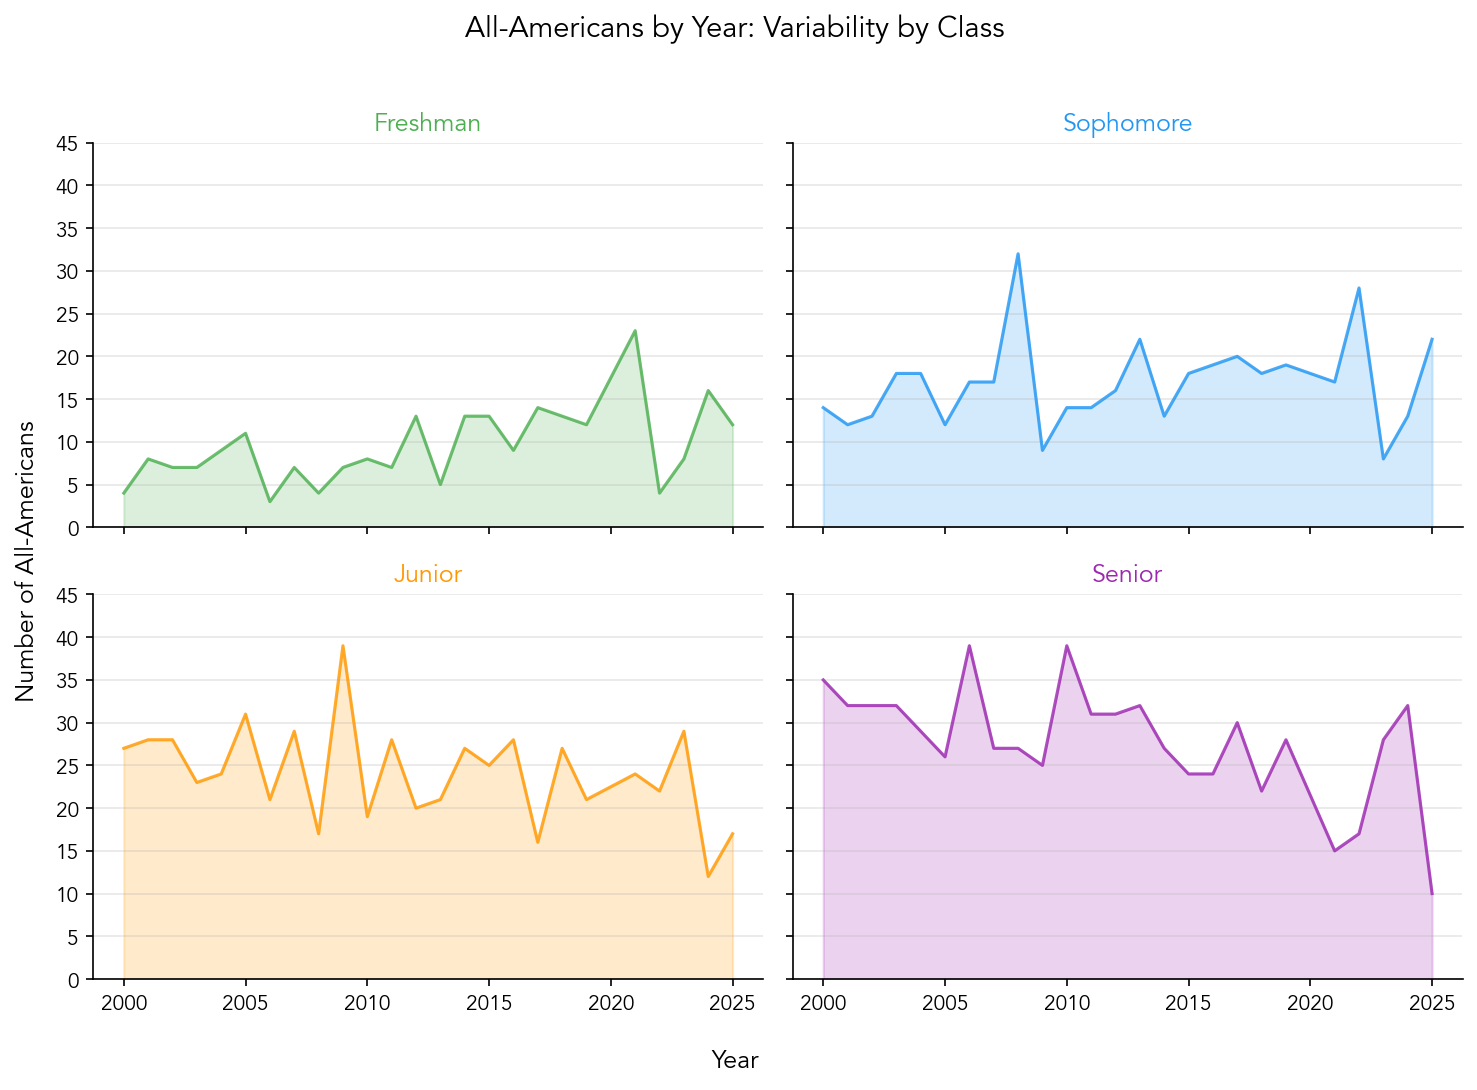
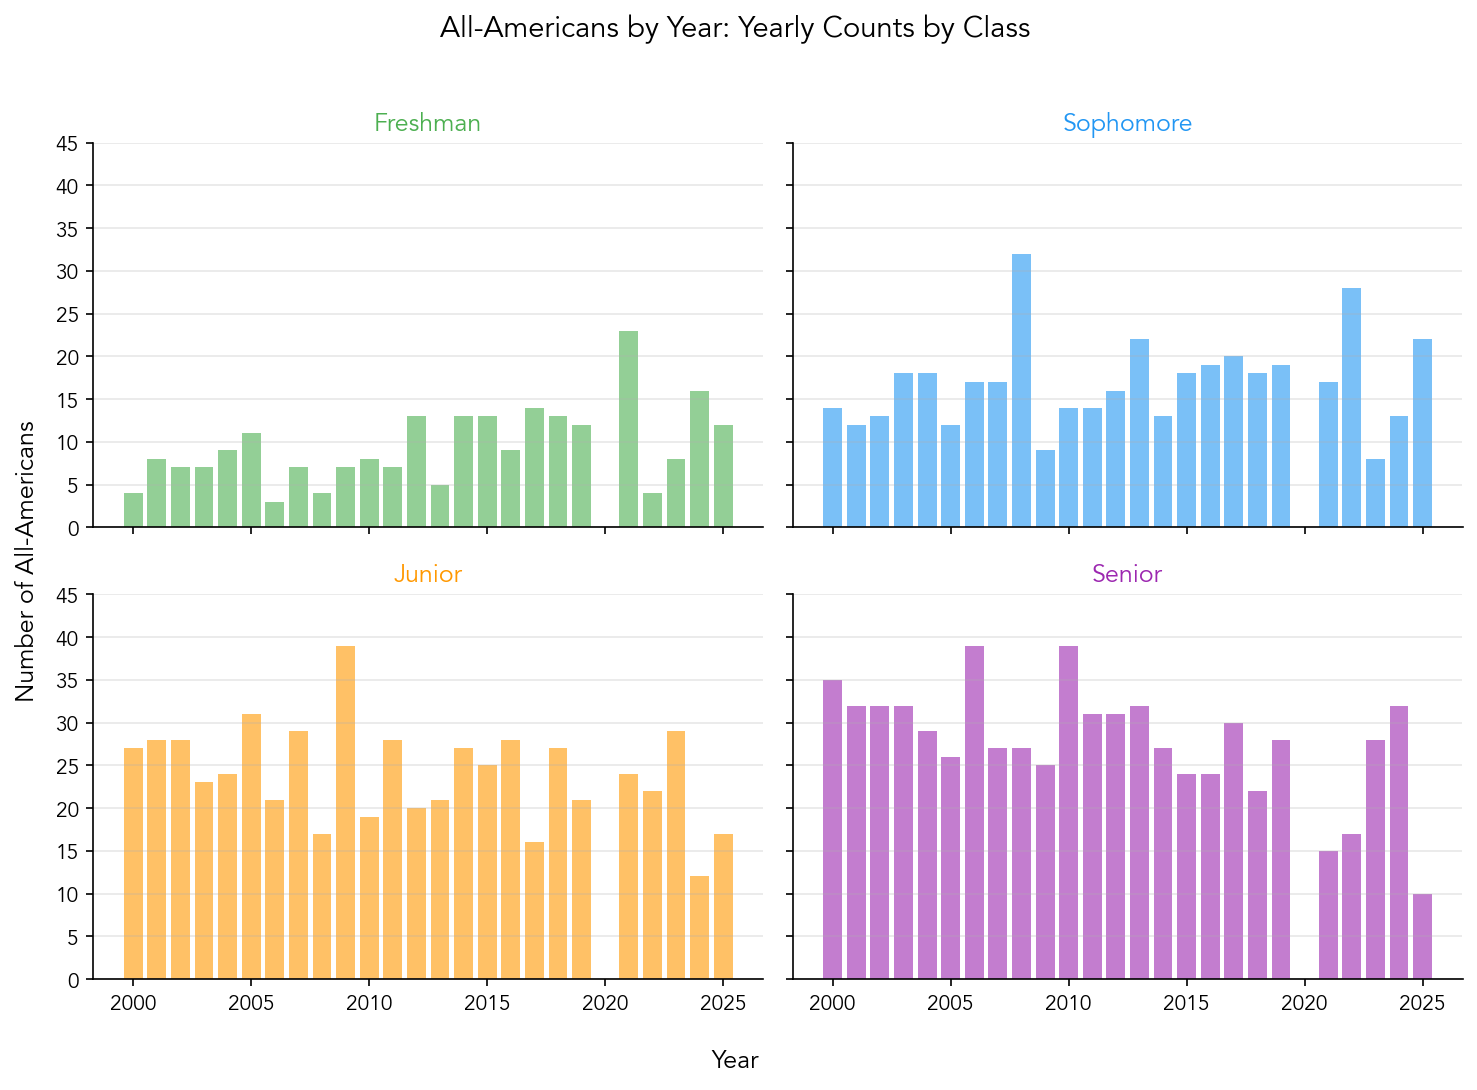
Update charts: 7-year rolling for AA trend, bar charts for variability views

diff --git a/notebooks/analysis.py b/notebooks/analysis.py
@@ -249,8 +249,8 @@ aa_by_year_elig = df.pivot_table(
 plot_order = [e for e in ["Fr", "So", "Jr", "Sr"] if e in aa_by_year_elig.columns]
 aa_counts = aa_by_year_elig[plot_order]
 
-# 5-year rolling mean for smoothing
-aa_smoothed = aa_counts.rolling(window=5, center=True, min_periods=1).mean()
+# 7-year rolling mean for smoothing
+aa_smoothed = aa_counts.rolling(window=7, center=True, min_periods=1).mean()
 
 # Eligibility labels for direct annotation
 ELIG_LABELS = {"Fr": "Freshman", "So": "Sophomore", "Jr": "Junior", "Sr": "Senior"}
@@ -284,7 +284,7 @@ for elig in plot_order:
 
 ax.set_xlabel("Year", fontsize=12)
 ax.set_ylabel("Number of All-Americans", fontsize=12)
-ax.set_title("All-Americans by Eligibility Class Over Time\n(5-year smoothed trend)", 
+ax.set_title("All-Americans by Eligibility Class Over Time\n(7-year smoothed trend)", 
              fontsize=14, fontweight="bold")
 ax.set_ylim(0, 45)
 ax.set_xlim(aa_smoothed.index.min(), aa_smoothed.index.max() + 3)  # Extra space for labels
@@ -302,7 +302,7 @@ print(f"Saved: {chart_path}")
 print(f"Saved: {site_chart_path}")
 
 # ==============================================================================
-# CHART 4: All-Americans Variability (Secondary) - Small Multiples
+# CHART 4: All-Americans Variability (Secondary) - Small Multiples Bar Charts
 # ==============================================================================
 
 fig, axes = plt.subplots(2, 2, figsize=(10, 7), sharex=True, sharey=True)
@@ -313,21 +313,13 @@ for idx, elig in enumerate(plot_order):
     years = aa_counts.index.values
     counts = aa_counts[elig].values
     
-    # Thin line for raw yearly data
-    ax.plot(
+    # Bar chart for raw yearly data
+    ax.bar(
         years, 
         counts,
         color=ELIGIBILITY_COLORS.get(elig, "#888888"),
-        linewidth=1.5,
-        alpha=0.8
-    )
-    
-    # Fill under the line
-    ax.fill_between(
-        years, 
-        counts, 
-        alpha=0.2,
-        color=ELIGIBILITY_COLORS.get(elig, "#888888")
+        alpha=0.6,
+        width=0.8
     )
     
     ax.set_title(ELIG_LABELS[elig], fontsize=12, fontweight="medium",
@@ -340,7 +332,7 @@ for idx, elig in enumerate(plot_order):
 # Common labels
 fig.supxlabel("Year", fontsize=12)
 fig.supylabel("Number of All-Americans", fontsize=12)
-fig.suptitle("All-Americans by Year: Variability by Class", fontsize=14, fontweight="bold", y=1.02)
+fig.suptitle("All-Americans by Year: Yearly Counts by Class", fontsize=14, fontweight="bold", y=1.02)
 
 plt.tight_layout()
 chart_path = CHARTS_DIR / "aa_variability_by_eligibility.png"
@@ -417,7 +409,7 @@ print(f"Saved: {chart_path}")
 print(f"Saved: {site_chart_path}")
 
 # ==============================================================================
-# CHART 6: National Champions Variability (Secondary) - Small Multiples
+# CHART 6: National Champions Variability (Secondary) - Small Multiples Bar Charts
 # ==============================================================================
 
 fig, axes = plt.subplots(2, 2, figsize=(10, 7), sharex=True, sharey=True)
@@ -428,21 +420,13 @@ for idx, elig in enumerate(plot_order_nc):
     years = nc_counts.index.values
     counts = nc_counts[elig].values
     
-    # Thin line for raw yearly data
-    ax.plot(
+    # Bar chart for raw yearly data
+    ax.bar(
         years, 
         counts,
         color=ELIGIBILITY_COLORS.get(elig, "#888888"),
-        linewidth=1.5,
-        alpha=0.8
-    )
-    
-    # Fill under the line
-    ax.fill_between(
-        years, 
-        counts, 
-        alpha=0.2,
-        color=ELIGIBILITY_COLORS.get(elig, "#888888")
+        alpha=0.6,
+        width=0.8
     )
     
     ax.set_title(ELIG_LABELS[elig], fontsize=12, fontweight="medium",
@@ -455,7 +439,7 @@ for idx, elig in enumerate(plot_order_nc):
 # Common labels
 fig.supxlabel("Year", fontsize=12)
 fig.supylabel("Number of National Champions", fontsize=12)
-fig.suptitle("National Champions by Year: Variability by Class", fontsize=14, fontweight="bold", y=1.02)
+fig.suptitle("National Champions by Year: Yearly Counts by Class", fontsize=14, fontweight="bold", y=1.02)
 
 plt.tight_layout()
 chart_path = CHARTS_DIR / "nc_variability_by_eligibility.png"

diff --git a/docs/report.md b/docs/report.md
@@ -61,7 +61,7 @@ Has the eligibility distribution changed over 25 years? These charts show how ea
 
 <figure>
 <img src="{{ site.baseurl }}/charts/aa_trend_by_eligibility.png" alt="Smoothed trend lines showing All-Americans by eligibility year over time">
-<figcaption>Five-year smoothed trend in All-Americans by eligibility class, 2000–2025.</figcaption>
+<figcaption>Seven-year smoothed trend in All-Americans by eligibility class, 2000–2025.</figcaption>
 </figure>
 
 <figure>
